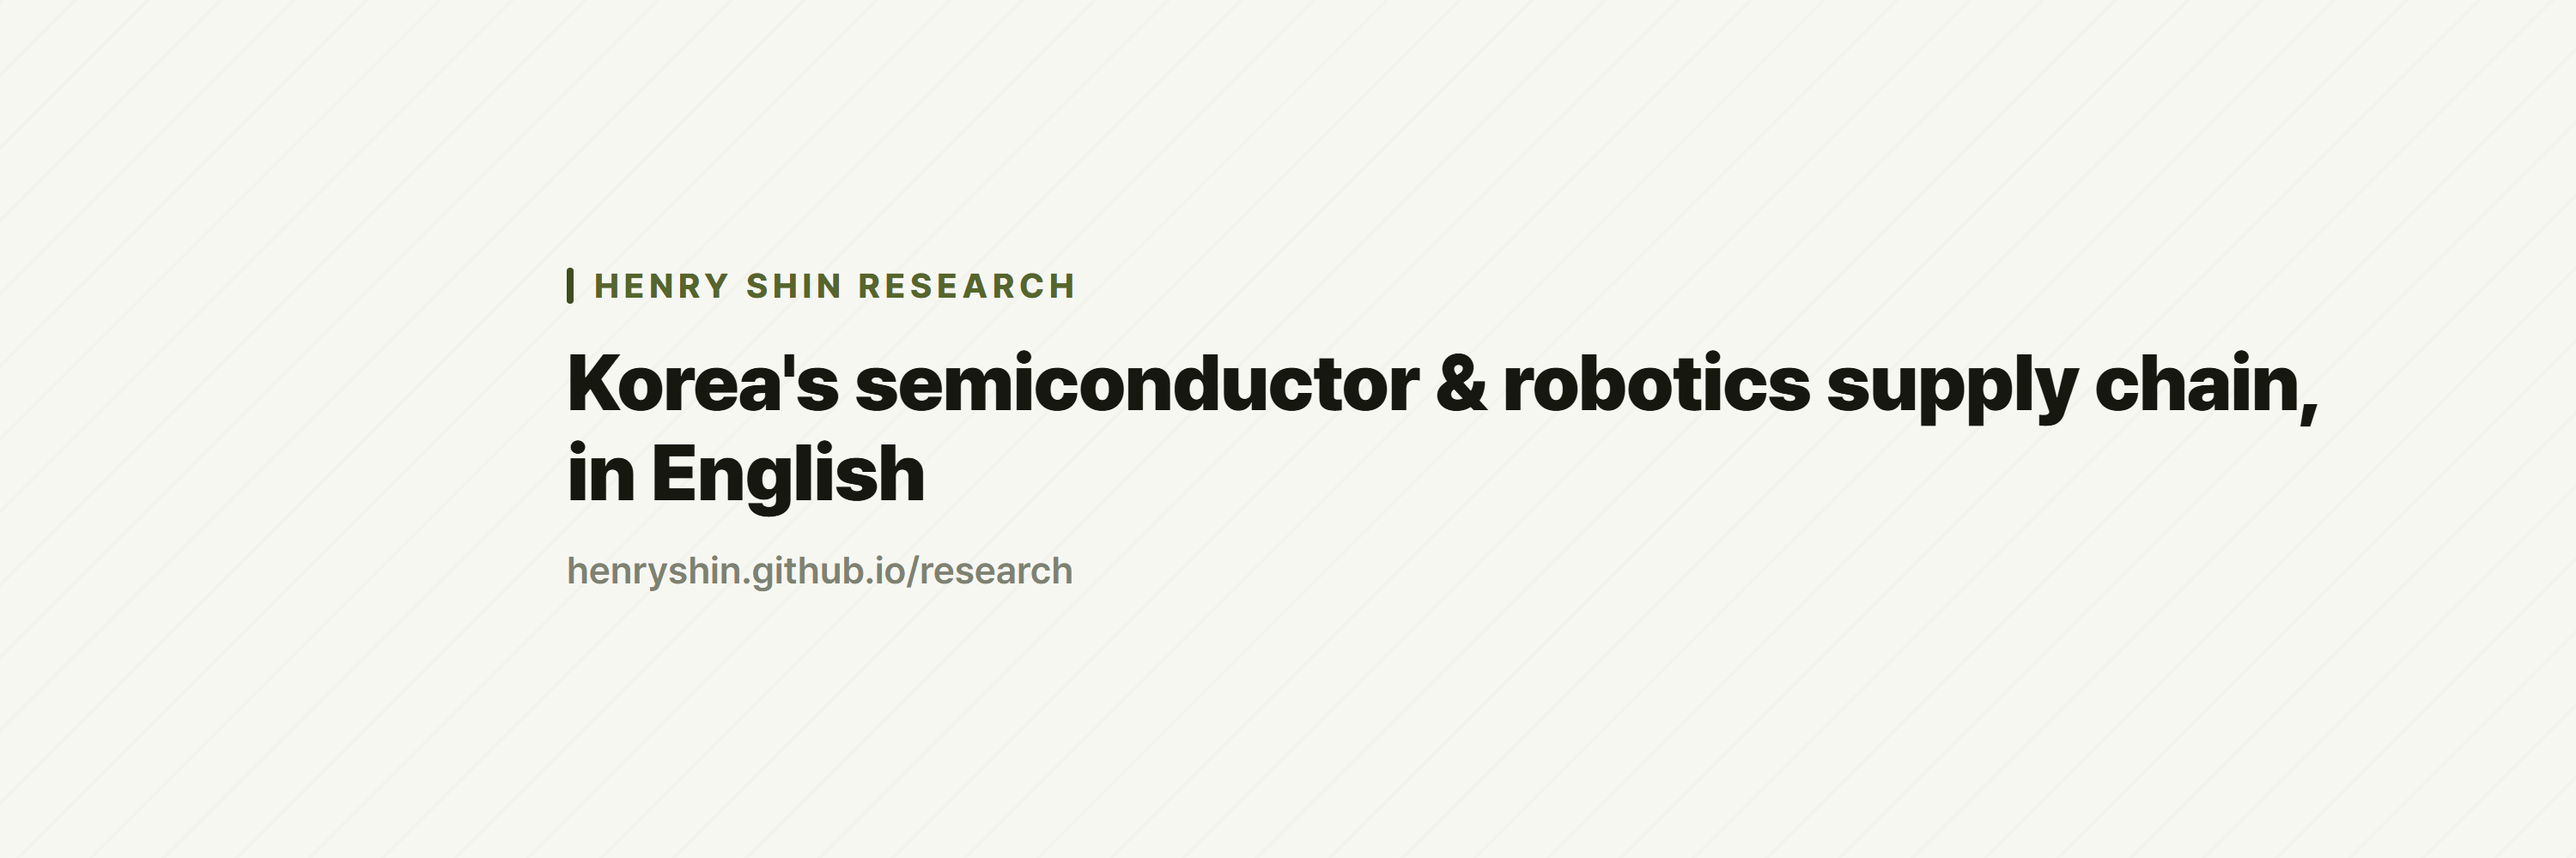
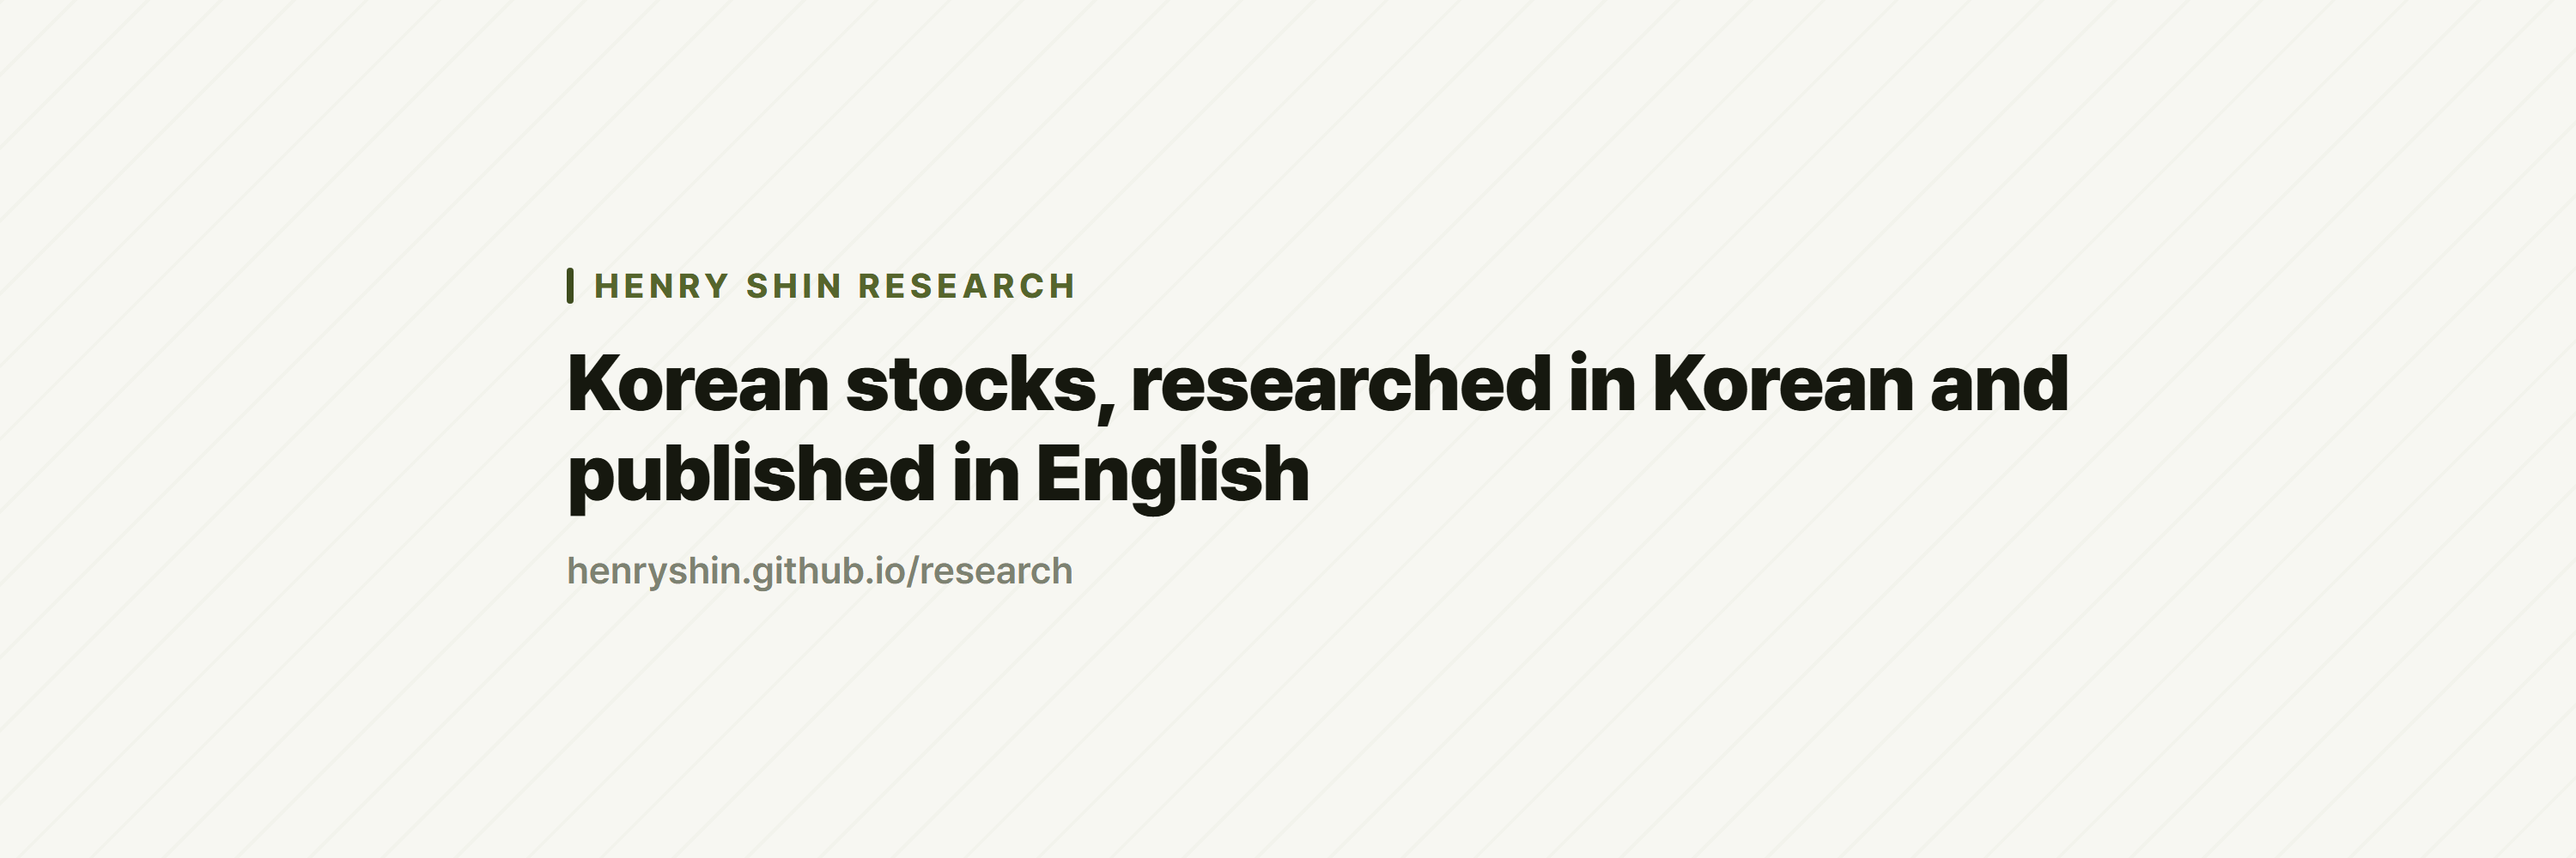
Declare twitter:card on pages that lack one
The hub still ran the older head template, so it had twitter:image but
no twitter:card. X falls back to the small summary card in that case,
which is what a link to the hub actually rendered as - the 1200x630
card was there and simply never used.

The block now adds twitter:card only when the page doesn't declare one
outside the marker block, so the seven reports are untouched.
twitter:title/description are deliberately left out; they fall back to
og:title/og:description, which the hub already has.

Changed region(s): [[0.217, 0.403, 0.899, 0.62]]

diff --git a/index.html b/index.html
@@ -61,6 +61,7 @@
 <meta name="robots" content="index, follow">
 <meta name="theme-color" content="#3f4d1e">
 <!-- social:auto (add_social_meta.py) -->
+<meta name="twitter:card" content="summary_large_image">
 <meta property="og:image" content="https://henryshin.github.io/research/assets/og.png?v=afd9e536">
 <meta property="og:image:width" content="1200">
 <meta property="og:image:height" content="630">

diff --git a/_tools/add_social_meta.py b/_tools/add_social_meta.py
@@ -44,6 +44,8 @@ BLOCK_RE = re.compile(re.escape(START) + r".*?" + re.escape(END) + r"\n?", re.S)
 CANON_RE = re.compile(r'<link\s+rel="canonical"\s+href="([^"]+)"\s*/?>', re.I)
 ANCHOR_RE = re.compile(r'<meta\s+name="theme-color"[^>]*>', re.I)
 OGTITLE_RE = re.compile(r'<meta\s+property="og:title"\s+content="([^"]*)"', re.I)
+# 블록 밖에 이미 twitter:card 를 선언한 페이지가 있는지 (리포트는 있고 허브는 없음)
+TWCARD_RE = re.compile(r'<meta\s+name="twitter:card"', re.I)
 
 
 def site_base(canonical):
@@ -59,10 +61,19 @@ def site_base(canonical):
     return origin, base
 
 
-def build_block(img_url, alt):
+def build_block(img_url, alt, need_card):
+    """need_card: 페이지가 twitter:card 를 아직 선언하지 않았으면 여기서 넣는다.
+
+    twitter:image 만 있고 twitter:card 가 없으면 X 는 기본값(작은 summary)으로
+    떨어져 큰 이미지가 안 나온다. 허브가 정확히 그 상태였다(구버전 head).
+    twitter:title/description 은 없으면 og:title/og:description 으로 폴백되므로
+    따로 넣지 않는다.
+    """
     alt = escape(alt, quote=True)
-    return "\n".join([
-        START,
+    lines = [START]
+    if need_card:
+        lines.append('<meta name="twitter:card" content="summary_large_image">')
+    return "\n".join(lines + [
         f'<meta property="og:image" content="{img_url}">',
         '<meta property="og:image:width" content="1200">',
         '<meta property="og:image:height" content="630">',
@@ -111,7 +122,9 @@ def process(path, dry=False):
     alt = unescape(tm.group(1)) if tm else "Henry Shin Research"
     alt = alt.split("—")[0].strip() + " — social card"
 
-    block = build_block(img_url, alt)
+    # 기존 블록 밖에 twitter:card 가 있는지로 판단(우리 블록 안의 것은 제외)
+    outside = BLOCK_RE.sub("", html)
+    block = build_block(img_url, alt, need_card=not TWCARD_RE.search(outside))
 
     if START in html:
         new = BLOCK_RE.sub(block + "\n", html, count=1)

diff --git a/_tools/make_profile.py b/_tools/make_profile.py
@@ -28,7 +28,10 @@ ROOT = os.path.dirname(os.path.dirname(os.path.abspath(__file__)))
 BRAND = os.path.join(ROOT, "_brand")
 
 P = PALETTE
-TAGLINE = "Korea's semiconductor &amp; robotics supply chain, in English"
+# 포지셔닝(2026-07-27 확정): 섹터를 좁히지 않는다. 리포트는 현재 반도체·로봇에
+# 몰려 있지만, 차별점은 섹터가 아니라 "한국어 1차 자료를 읽어 영어로 낸다"는
+# 정보 비대칭 자체다. 나중에 다른 섹터를 다뤄도 브랜드를 갈아엎지 않아도 된다.
+TAGLINE = "Korean stocks, researched in Korean and published in English"
 
 
 def avatar_html(size=400):
